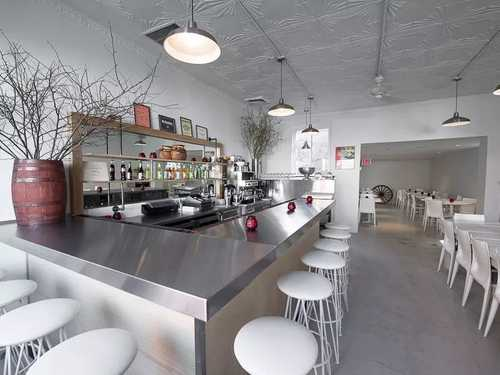
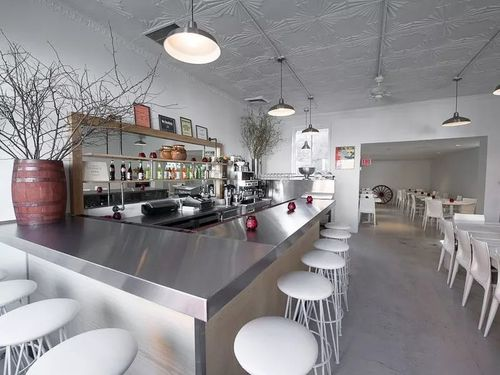
Removed quality definition

diff --git a/gulpfile.js b/gulpfile.js
@@ -16,13 +16,11 @@ gulp.task('responsive', function() {
 			[
 			{
 				width: 200,
-				quality: 50,
 				rename: {
 					suffix: '-200'
 				}
 			}, {
 				width: 500,
-				quality: 50,
 				rename: {
 					suffix: '-500'
 				}
